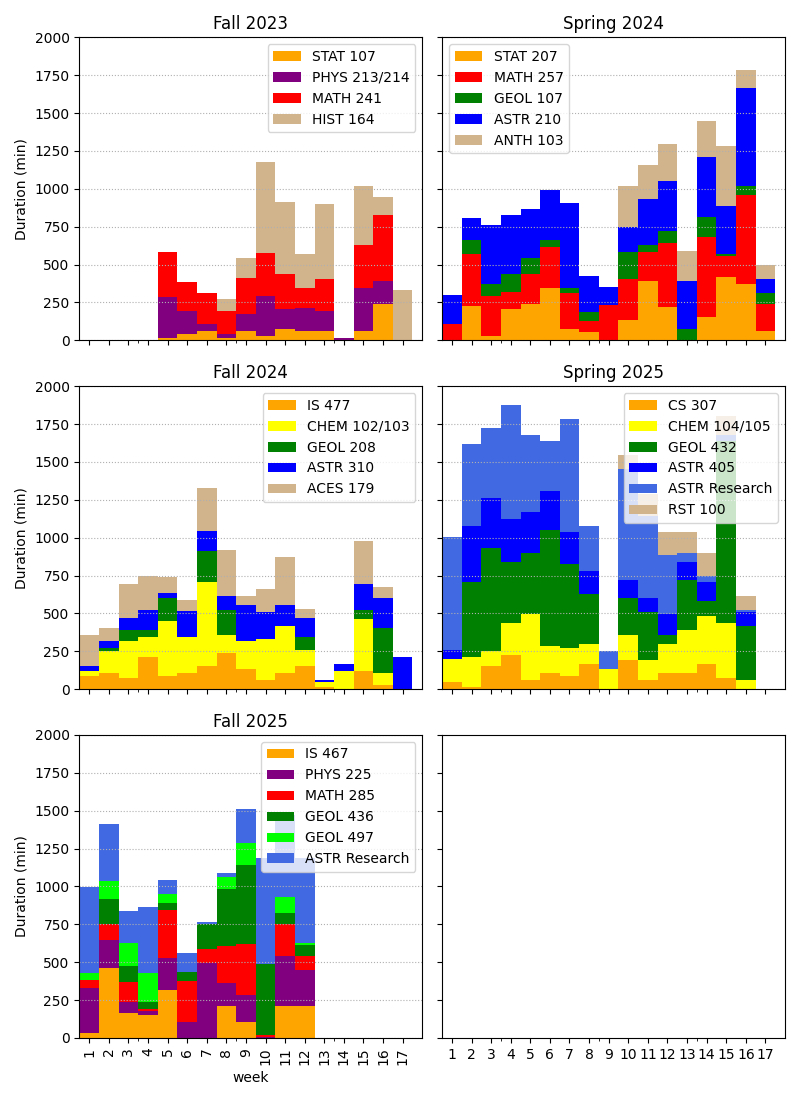
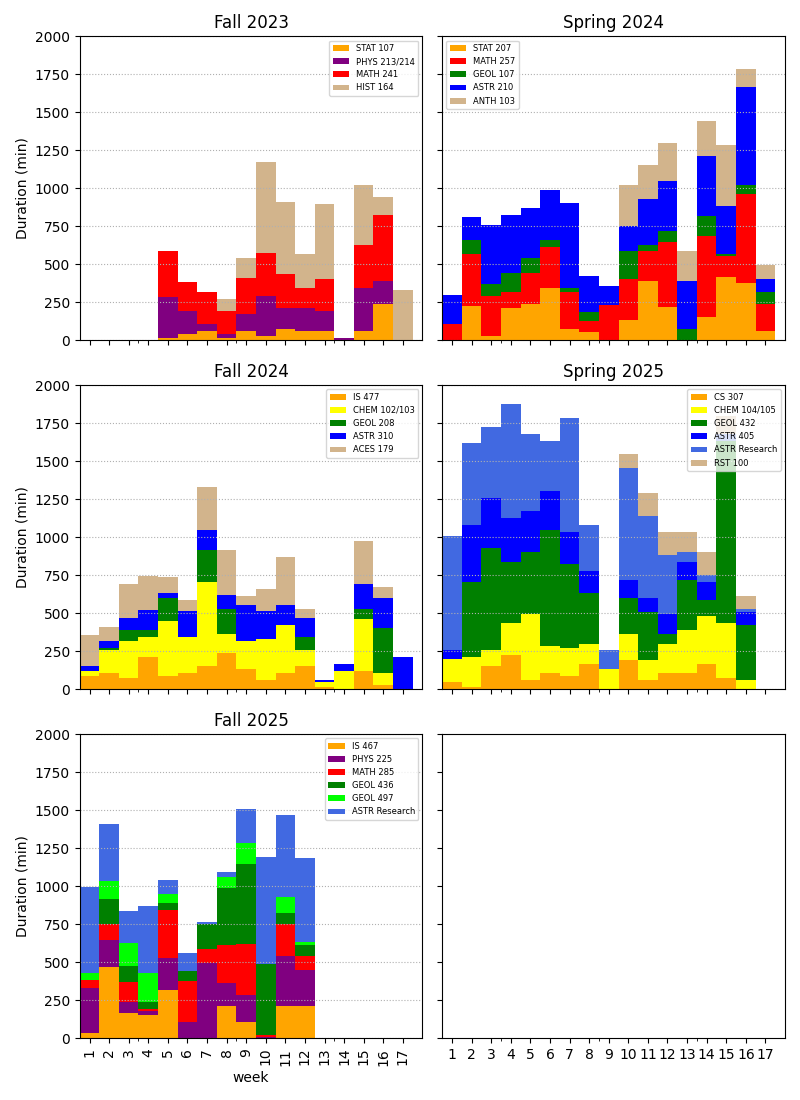
fixed legend font size

diff --git a/src/make-stackplot-by-week.py b/src/make-stackplot-by-week.py
@@ -67,7 +67,7 @@ for i, term in enumerate(['fa23', 'sp24', 'fa24', 'sp25', 'fa25']):
     df1 = to_stack_plot_data(master, term, classes_and_colors[term]['order'])
     df1.plot(kind='bar', stacked=True, color=classes_and_colors[term]['colors'], width=1, ax=ax[x,y])
     ax[x,y].grid(axis='y', ls='dotted')
-    ax[x,y].legend(df1.columns)
+    ax[x,y].legend(df1.columns, fontsize=6)
     if (x == 1):
         ax[x,y].set_xlabel("Week")
     if (y == 0):
